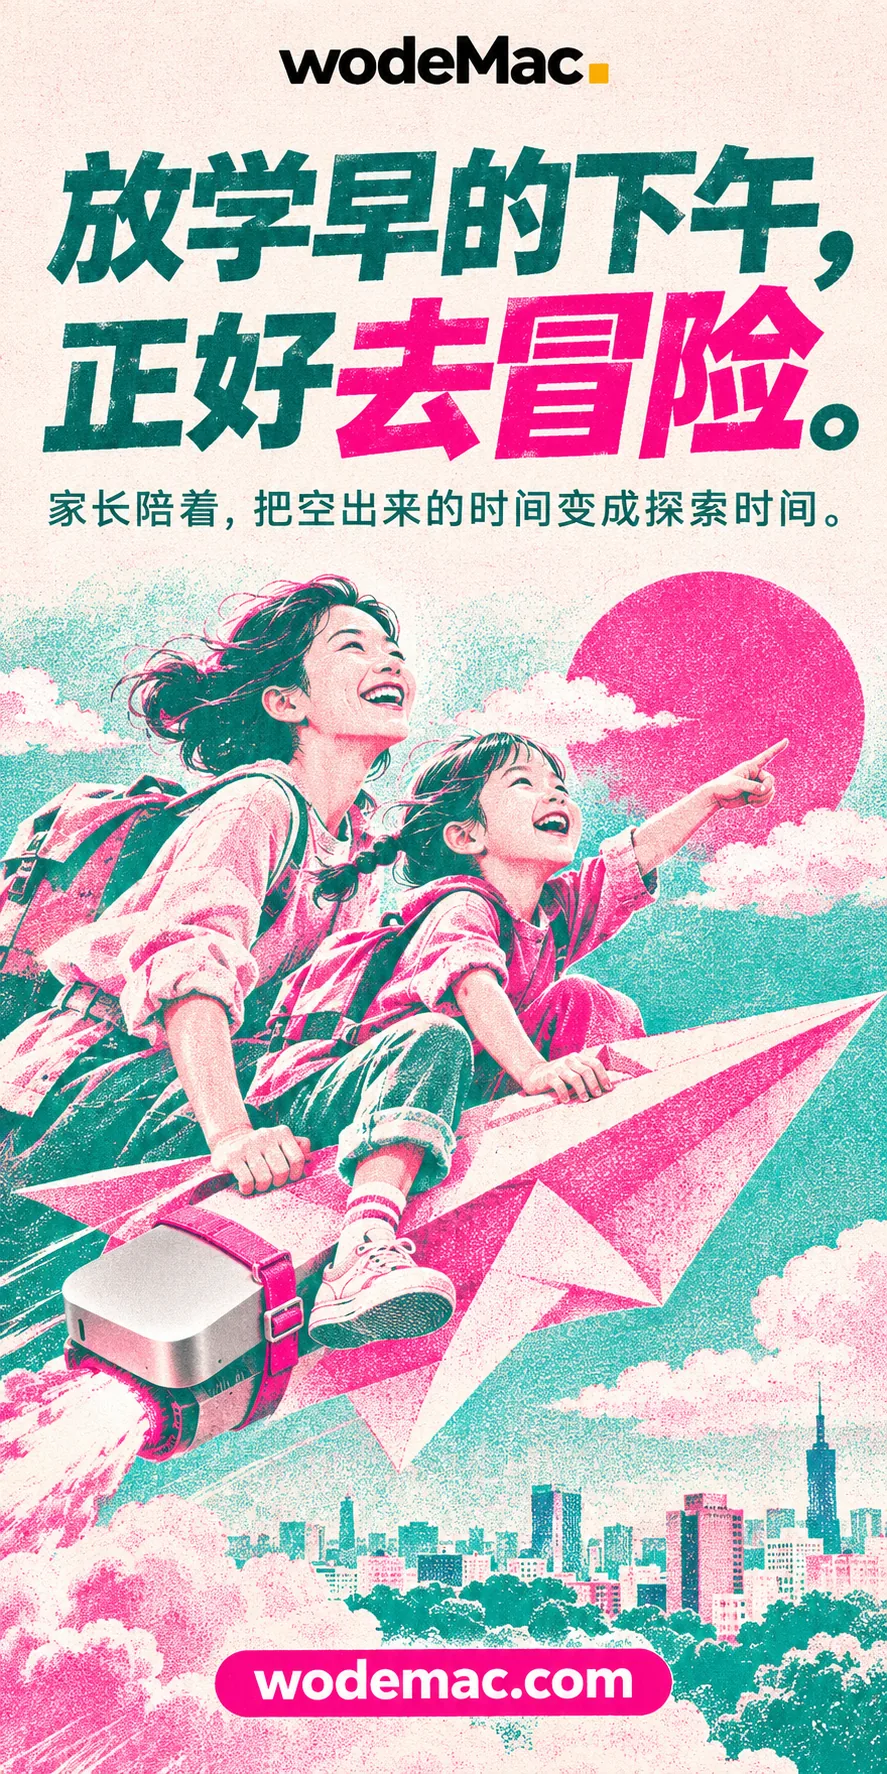
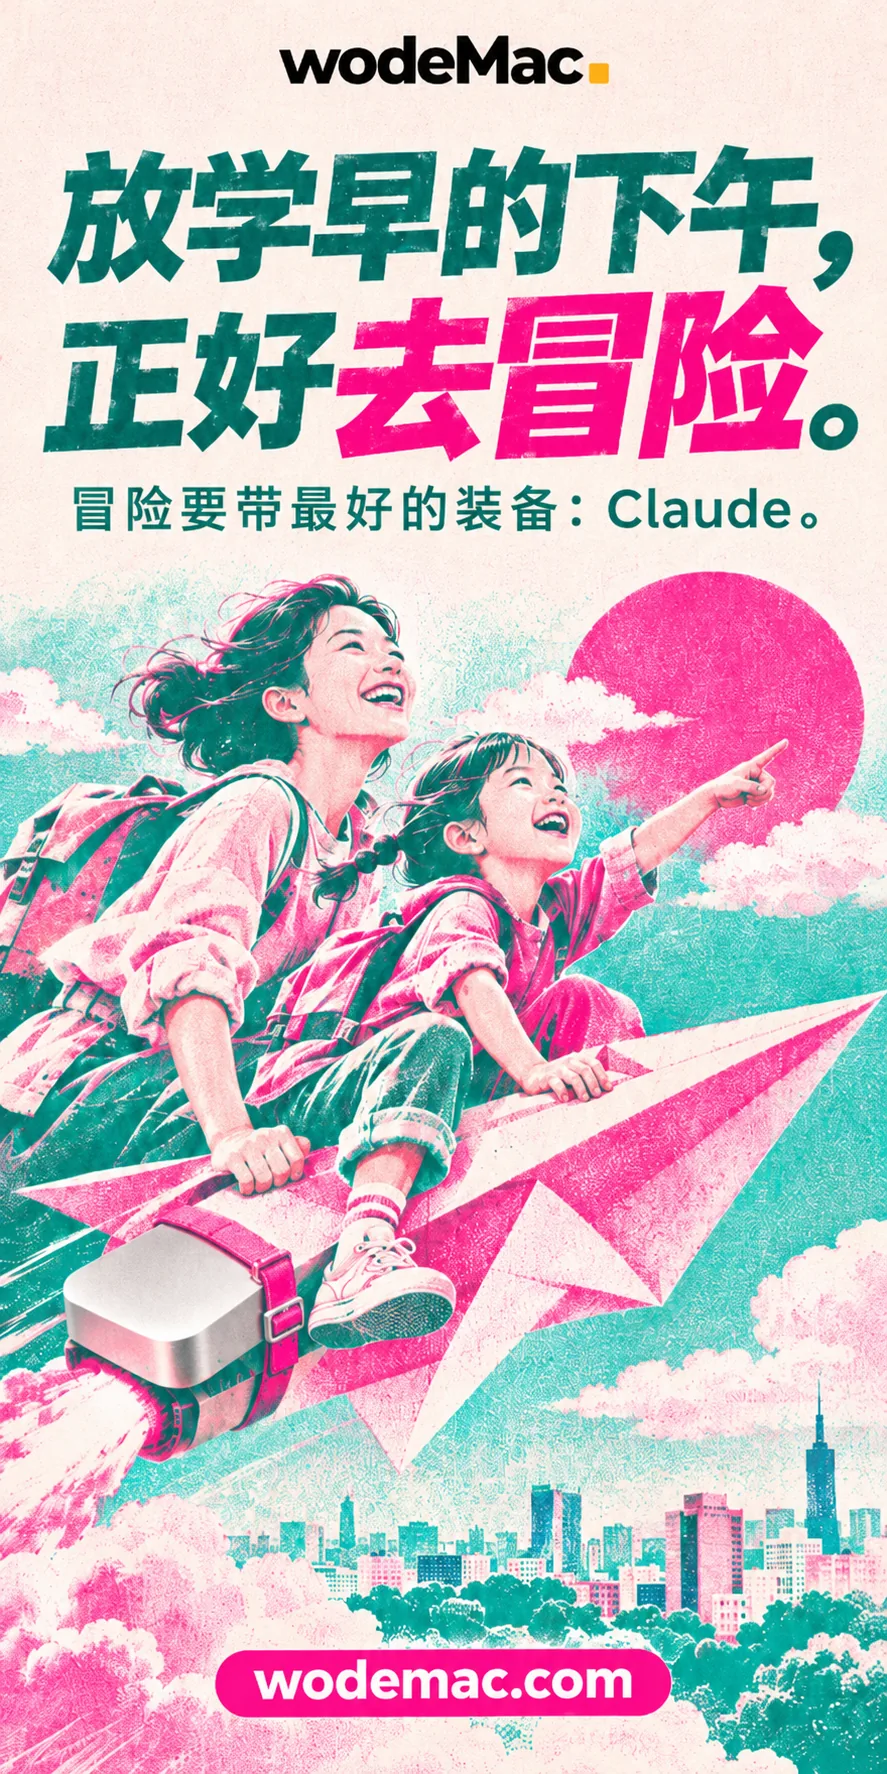
Say Claude is the strongest AI and the best gear on the play posters

diff --git a/materials.html b/materials.html
@@ -43,30 +43,30 @@
     <div class="asset-grid" id="asset-grid">
 <!-- materials:generated:start -->
 <article class="asset-card" data-asset-id="play-strongest" data-group="parents"><a class="poster-preview parents" style="aspect-ratio:1170/2532" href="assets/materials/campaign-20261107-play/play-strongest.png" target="_blank" rel="noopener" aria-label="查看原图：给孩子玩，就玩最强的 AI"><img src="assets/materials/campaign-20261107-play/play-strongest.webp" alt="给孩子玩，就玩最强的 AI" loading="lazy"></a><div class="asset-details"><p class="asset-category">学生家长<span class="asset-new">最新</span></p><h2>给孩子玩，就玩最强的 AI</h2><p class="asset-description">黑白时装大片风格。家长专题“玩中探索”总纲。</p><div class="asset-promo"><p class="asset-promo-label">推广文案</p><p class="asset-promo-text">给孩子玩，就玩最强的 AI。
-家长带着，让孩子把 Claude Code 当成最酷的玩具，想到什么就试什么。美国加州独享 Mac，环境我们备好。
+最强的 AI 是 Claude，家长带着孩子当游戏玩，想到什么就试什么。美国加州独享 Mac，环境我们备好。
 👉 wodemac.com</p><button type="button" class="asset-copy">复制文案</button></div><a class="asset-download" href="assets/materials/campaign-20261107-play/play-strongest.png" download>下载图片 ↓</a></div></article>
 <article class="asset-card" data-asset-id="play-not-race" data-group="parents"><a class="poster-preview parents" style="aspect-ratio:1170/2532" href="assets/materials/campaign-20261107-play/play-not-race.png" target="_blank" rel="noopener" aria-label="查看原图：别人用 AI 卷，我们用 AI 玩"><img src="assets/materials/campaign-20261107-play/play-not-race.webp" alt="别人用 AI 卷，我们用 AI 玩" loading="lazy"></a><div class="asset-details"><p class="asset-category">学生家长<span class="asset-new">最新</span></p><h2>别人用 AI 卷，我们用 AI 玩</h2><p class="asset-description">瑞士网格版式。不卷成绩，先养兴趣。</p><div class="asset-promo"><p class="asset-promo-label">推广文案</p><p class="asset-promo-text">别人用 AI 卷，我们用 AI 玩。
-让孩子在玩里探索，兴趣自己会长出来。家长陪着，用 Claude Code 一起动手。
+用最强的 Claude 玩，起跑线就是最高的。家长陪着，让孩子在玩里探索，兴趣自己会长出来。
 👉 wodemac.com</p><button type="button" class="asset-copy">复制文案</button></div><a class="asset-download" href="assets/materials/campaign-20261107-play/play-not-race.png" download>下载图片 ↓</a></div></article>
 <article class="asset-card" data-asset-id="explore-map" data-group="parents"><a class="poster-preview parents" style="aspect-ratio:1170/2532" href="assets/materials/campaign-20261107-play/explore-map.png" target="_blank" rel="noopener" aria-label="查看原图：让孩子去探索，地图自己画"><img src="assets/materials/campaign-20261107-play/explore-map.webp" alt="让孩子去探索，地图自己画" loading="lazy"></a><div class="asset-details"><p class="asset-category">学生家长<span class="asset-new">最新</span></p><h2>让孩子去探索，地图自己画</h2><p class="asset-description">古典航海图烫金风格。</p><div class="asset-promo"><p class="asset-promo-label">推广文案</p><p class="asset-promo-text">让孩子去探索，地图自己画。
-没有标准路线，只有一次次好奇的出发。家长陪着，用最好的 AI 工具一起走。
+带上最强的 Claude，从最高的起点出发。没有标准路线，只有一次次好奇的出发，家长陪着一起走。
 👉 wodemac.com</p><button type="button" class="asset-copy">复制文案</button></div><a class="asset-download" href="assets/materials/campaign-20261107-play/explore-map.png" download>下载图片 ↓</a></div></article>
 <article class="asset-card" data-asset-id="afternoon-adventure" data-group="parents"><a class="poster-preview parents" style="aspect-ratio:1170/2532" href="assets/materials/campaign-20261107-play/afternoon-adventure.png" target="_blank" rel="noopener" aria-label="查看原图：放学早的下午，正好去冒险"><img src="assets/materials/campaign-20261107-play/afternoon-adventure.webp" alt="放学早的下午，正好去冒险" loading="lazy"></a><div class="asset-details"><p class="asset-category">学生家长<span class="asset-new">最新</span></p><h2>放学早的下午，正好去冒险</h2><p class="asset-description">孔版印刷风格。适合低年级家长。</p><div class="asset-promo"><p class="asset-promo-label">推广文案</p><p class="asset-promo-text">放学早的下午，正好去冒险。
-家长陪着，把空出来的时间变成探索时间：问问题、做小游戏、画故事，用 Claude Code 一起做出来。
+冒险要带最好的装备：Claude。家长陪着，把空出来的时间变成探索时间：问问题、做小游戏、画故事。
 👉 wodemac.com</p><button type="button" class="asset-copy">复制文案</button></div><a class="asset-download" href="assets/materials/campaign-20261107-play/afternoon-adventure.png" download>下载图片 ↓</a></div></article>
-<article class="asset-card" data-asset-id="game-mode" data-group="parents"><a class="poster-preview parents" style="aspect-ratio:1170/2532" href="assets/materials/campaign-20261107-play/game-mode.png" target="_blank" rel="noopener" aria-label="查看原图：把学习，调成游戏模式"><img src="assets/materials/campaign-20261107-play/game-mode.webp" alt="把学习，调成游戏模式" loading="lazy"></a><div class="asset-details"><p class="asset-category">学生家长<span class="asset-new">最新</span></p><h2>把学习，调成游戏模式</h2><p class="asset-description">复古未来霓虹风格。</p><div class="asset-promo"><p class="asset-promo-label">推广文案</p><p class="asset-promo-text">把学习，调成游戏模式。
-在玩中提问、试错、做出东西。家长陪着，用 Claude Code 和孩子一起闯关。
+<article class="asset-card" data-asset-id="game-mode" data-group="parents"><a class="poster-preview parents" style="aspect-ratio:1170/2532" href="assets/materials/campaign-20261107-play/game-mode.png" target="_blank" rel="noopener" aria-label="查看原图：像打游戏一样，开局就配最强装备"><img src="assets/materials/campaign-20261107-play/game-mode.webp" alt="像打游戏一样，开局就配最强装备" loading="lazy"></a><div class="asset-details"><p class="asset-category">学生家长<span class="asset-new">最新</span></p><h2>像打游戏一样，开局就配最强装备</h2><p class="asset-description">复古未来霓虹风格。</p><div class="asset-promo"><p class="asset-promo-label">推广文案</p><p class="asset-promo-text">像打游戏一样，开局就配最强装备。
+最强的 AI 装备：Claude。家长陪着孩子一起玩，在玩中提问、试错、做出东西。
 👉 wodemac.com</p><button type="button" class="asset-copy">复制文案</button></div><a class="asset-download" href="assets/materials/campaign-20261107-play/game-mode.png" download>下载图片 ↓</a></div></article>
-<article class="asset-card" data-asset-id="curiosity-engine" data-group="parents"><a class="poster-preview parents" style="aspect-ratio:1170/2532" href="assets/materials/campaign-20261107-play/curiosity-engine.png" target="_blank" rel="noopener" aria-label="查看原图：好奇心，才是最强的引擎"><img src="assets/materials/campaign-20261107-play/curiosity-engine.webp" alt="好奇心，才是最强的引擎" loading="lazy"></a><div class="asset-details"><p class="asset-category">学生家长<span class="asset-new">最新</span></p><h2>好奇心，才是最强的引擎</h2><p class="asset-description">发明家手稿风格。</p><div class="asset-promo"><p class="asset-promo-label">推广文案</p><p class="asset-promo-text">好奇心，才是最强的引擎。
-孩子想到什么，就和 AI 一起动手试试。家长陪着，美国加州独享 Mac 帮你把环境备好。
+<article class="asset-card" data-asset-id="curiosity-engine" data-group="parents"><a class="poster-preview parents" style="aspect-ratio:1170/2532" href="assets/materials/campaign-20261107-play/curiosity-engine.png" target="_blank" rel="noopener" aria-label="查看原图：好奇心是引擎，Claude 是最强的燃料"><img src="assets/materials/campaign-20261107-play/curiosity-engine.webp" alt="好奇心是引擎，Claude 是最强的燃料" loading="lazy"></a><div class="asset-details"><p class="asset-category">学生家长<span class="asset-new">最新</span></p><h2>好奇心是引擎，Claude 是最强的燃料</h2><p class="asset-description">发明家手稿风格。</p><div class="asset-promo"><p class="asset-promo-label">推广文案</p><p class="asset-promo-text">好奇心是引擎，Claude 是最强的燃料。
+孩子想到什么，就用 Claude 动手试试。家长陪着，美国加州独享 Mac 帮你把环境备好。
 👉 wodemac.com</p><button type="button" class="asset-copy">复制文案</button></div><a class="asset-download" href="assets/materials/campaign-20261107-play/curiosity-engine.png" download>下载图片 ↓</a></div></article>
 <article class="asset-card" data-asset-id="build-it" data-group="parents"><a class="poster-preview parents" style="aspect-ratio:1170/2532" href="assets/materials/campaign-20261107-play/build-it.png" target="_blank" rel="noopener" aria-label="查看原图：不止刷题，还能亲手造出来"><img src="assets/materials/campaign-20261107-play/build-it.webp" alt="不止刷题，还能亲手造出来" loading="lazy"></a><div class="asset-details"><p class="asset-category">学生家长<span class="asset-new">最新</span></p><h2>不止刷题，还能亲手造出来</h2><p class="asset-description">清水混凝土美术馆风格。</p><div class="asset-promo"><p class="asset-promo-label">推广文案</p><p class="asset-promo-text">不止刷题，还能亲手造出来。
-用 Claude Code，把孩子的点子变成看得见的作品：小游戏、小网页、绘本故事。家长陪着一起做。
+用最强的 Claude Code，把孩子的点子变成看得见的作品：小游戏、小网页、绘本故事。家长陪着一起做。
 👉 wodemac.com</p><button type="button" class="asset-copy">复制文案</button></div><a class="asset-download" href="assets/materials/campaign-20261107-play/build-it.png" download>下载图片 ↓</a></div></article>
 <article class="asset-card" data-asset-id="school-and-ai" data-group="parents"><a class="poster-preview parents" style="aspect-ratio:1170/2532" href="assets/materials/campaign-20261107-play/school-and-ai.png" target="_blank" rel="noopener" aria-label="查看原图：学校里交朋友，回家玩 AI"><img src="assets/materials/campaign-20261107-play/school-and-ai.webp" alt="学校里交朋友，回家玩 AI" loading="lazy"></a><div class="asset-details"><p class="asset-category">学生家长<span class="asset-new">最新</span></p><h2>学校里交朋友，回家玩 AI</h2><p class="asset-description">七十年代胶片风格。</p><div class="asset-promo"><p class="asset-promo-label">推广文案</p><p class="asset-promo-text">学校里交朋友，回家玩 AI。
-同学和老师很重要，回家后的探索时间家长来陪，用最好的 AI 工具一起玩。
+回家就玩最强的 AI：Claude。同学和老师很重要，回家后的探索时间家长来陪。
 👉 wodemac.com</p><button type="button" class="asset-copy">复制文案</button></div><a class="asset-download" href="assets/materials/campaign-20261107-play/school-and-ai.png" download>下载图片 ↓</a></div></article>
-<article class="asset-card" data-asset-id="little-ceo" data-group="parents"><a class="poster-preview parents" style="aspect-ratio:1170/2532" href="assets/materials/campaign-20261107-play/little-ceo.png" target="_blank" rel="noopener" aria-label="查看原图：让孩子从小，用世界上最好的工具"><img src="assets/materials/campaign-20261107-play/little-ceo.webp" alt="让孩子从小，用世界上最好的工具" loading="lazy"></a><div class="asset-details"><p class="asset-category">学生家长<span class="asset-new">最新</span></p><h2>让孩子从小，用世界上最好的工具</h2><p class="asset-description">当代水墨鎏金风格。</p><div class="asset-promo"><p class="asset-promo-label">推广文案</p><p class="asset-promo-text">让孩子从小，用世界上最好的工具。
+<article class="asset-card" data-asset-id="little-ceo" data-group="parents"><a class="poster-preview parents" style="aspect-ratio:1170/2532" href="assets/materials/campaign-20261107-play/little-ceo.png" target="_blank" rel="noopener" aria-label="查看原图：起跑线最高的装备，叫 Claude"><img src="assets/materials/campaign-20261107-play/little-ceo.webp" alt="起跑线最高的装备，叫 Claude" loading="lazy"></a><div class="asset-details"><p class="asset-category">学生家长<span class="asset-new">最新</span></p><h2>起跑线最高的装备，叫 Claude</h2><p class="asset-description">当代水墨鎏金风格。</p><div class="asset-promo"><p class="asset-promo-label">推广文案</p><p class="asset-promo-text">起跑线最高的装备，叫 Claude。
 美国加州独享 Mac，为 Claude Code 准备好，家长陪着孩子一起用。
 👉 wodemac.com</p><button type="button" class="asset-copy">复制文案</button></div><a class="asset-download" href="assets/materials/campaign-20261107-play/little-ceo.png" download>下载图片 ↓</a></div></article>
 <article class="asset-card" data-asset-id="start-line" data-group="parents"><a class="poster-preview parents" style="aspect-ratio:1170/2532" href="assets/materials/campaign-20261107-parents/start-line.png" target="_blank" rel="noopener" aria-label="查看原图：给孩子最好的 AI，赢在起跑线"><img src="assets/materials/campaign-20261107-parents/start-line.webp" alt="给孩子最好的 AI，赢在起跑线" loading="lazy"></a><div class="asset-details"><p class="asset-category">学生家长</p><h2>给孩子最好的 AI，赢在起跑线</h2><p class="asset-description">体育大片风格。家长系列总纲，适合先发。</p><div class="asset-promo"><p class="asset-promo-label">推广文案</p><p class="asset-promo-text">给孩子最好的 AI，赢在起跑线。

diff --git a/README.md b/README.md
@@ -130,4 +130,4 @@ python3 scripts/update_seo.py --base-url https://wodemac.vilesaint.com
 
 ## 第八批海报（2026-11-07，家长专题：玩中探索，1:2）
 
-9 张，观点是“家长用最强的 AI 给孩子当游戏玩，让孩子充分探索”，并参考家长群里关于下午放学早、学校社交也重要的讨论。风格各不相同：黑白时装大片、瑞士网格、烫金航海图、孔版印刷、复古霓虹、发明家手稿、混凝土美术馆、七十年代胶片、当代水墨鎏金。原图在 `assets/materials/campaign-20261107-play/`。每张画面都有家长在场，不贬低学校，不承诺成绩，不出现其他 AI 产品名称或标志。
+9 张，观点是“家长用最强的 AI 给孩子当游戏玩，让孩子充分探索；Claude 是最强的 AI，像打游戏一样开局就配最强装备，起跑线最高”，并参考家长群里关于下午放学早、学校社交也重要的讨论。风格各不相同：黑白时装大片、瑞士网格、烫金航海图、孔版印刷、复古霓虹、发明家手稿、混凝土美术馆、七十年代胶片、当代水墨鎏金。原图在 `assets/materials/campaign-20261107-play/`。每张画面都有家长在场，不贬低学校，不承诺成绩，不出现其他 AI 产品名称或标志。
